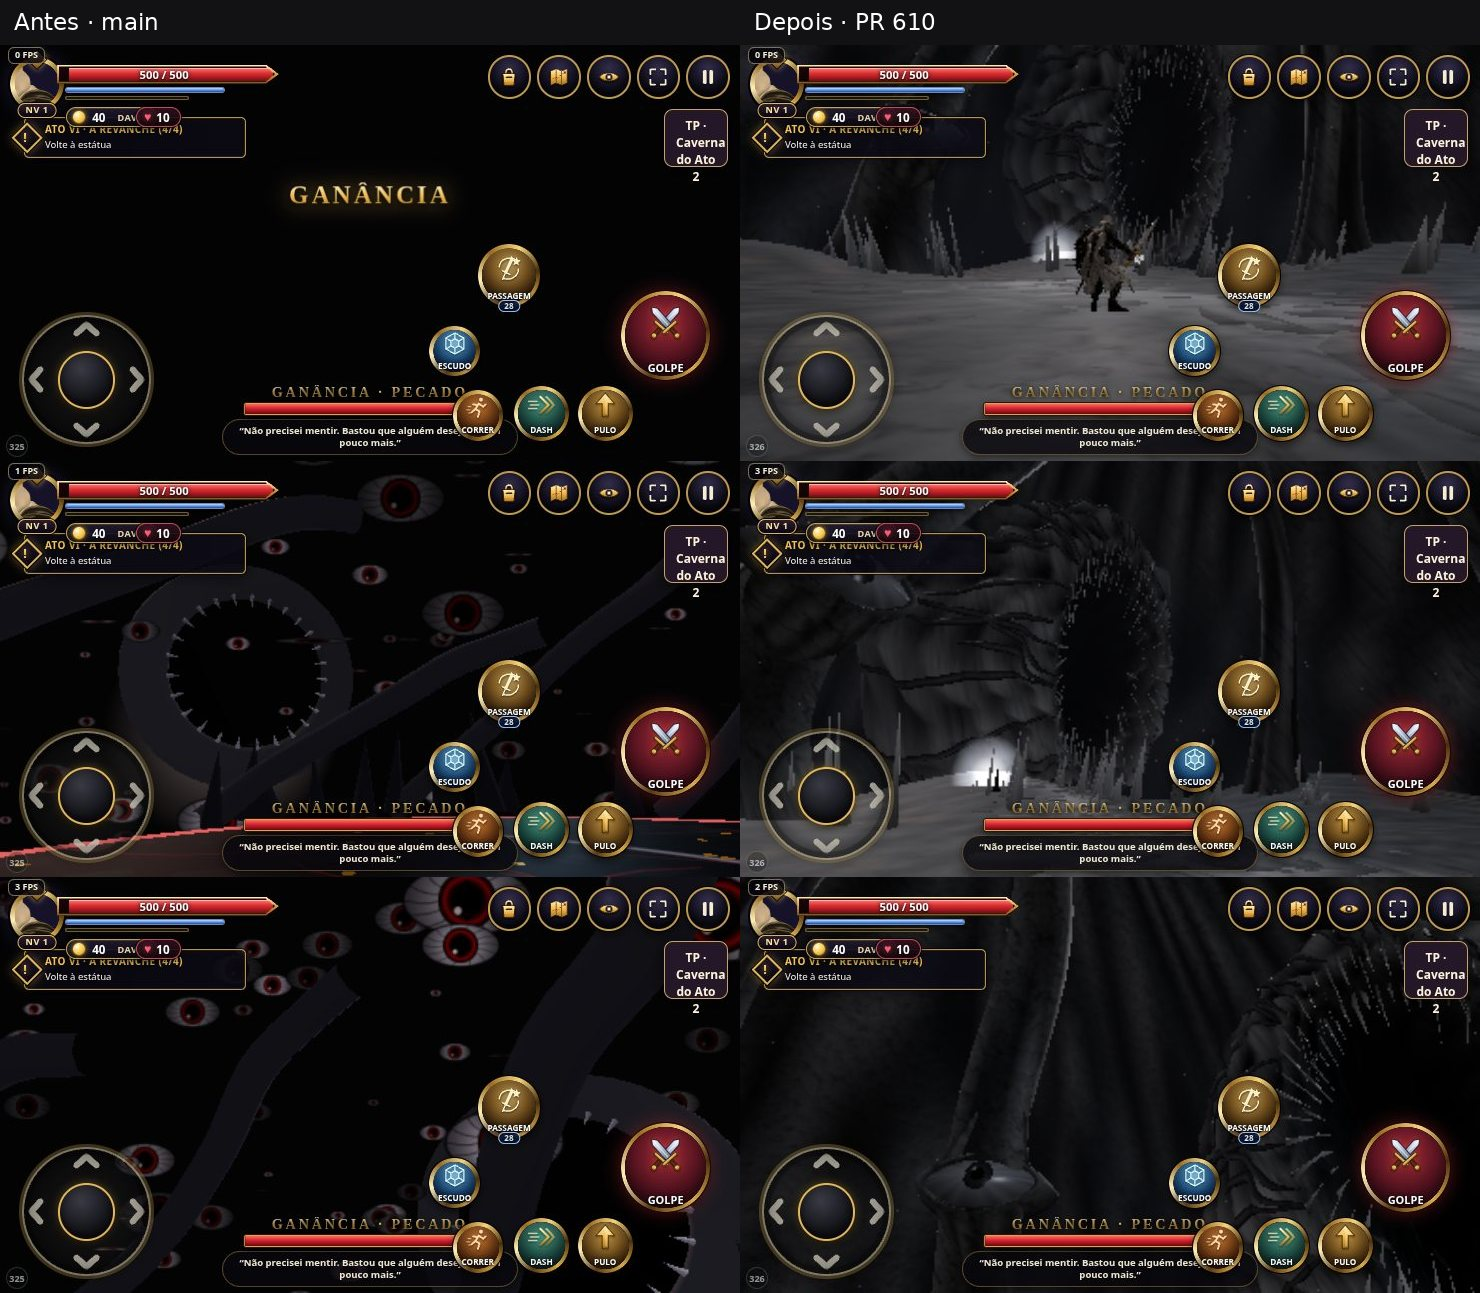
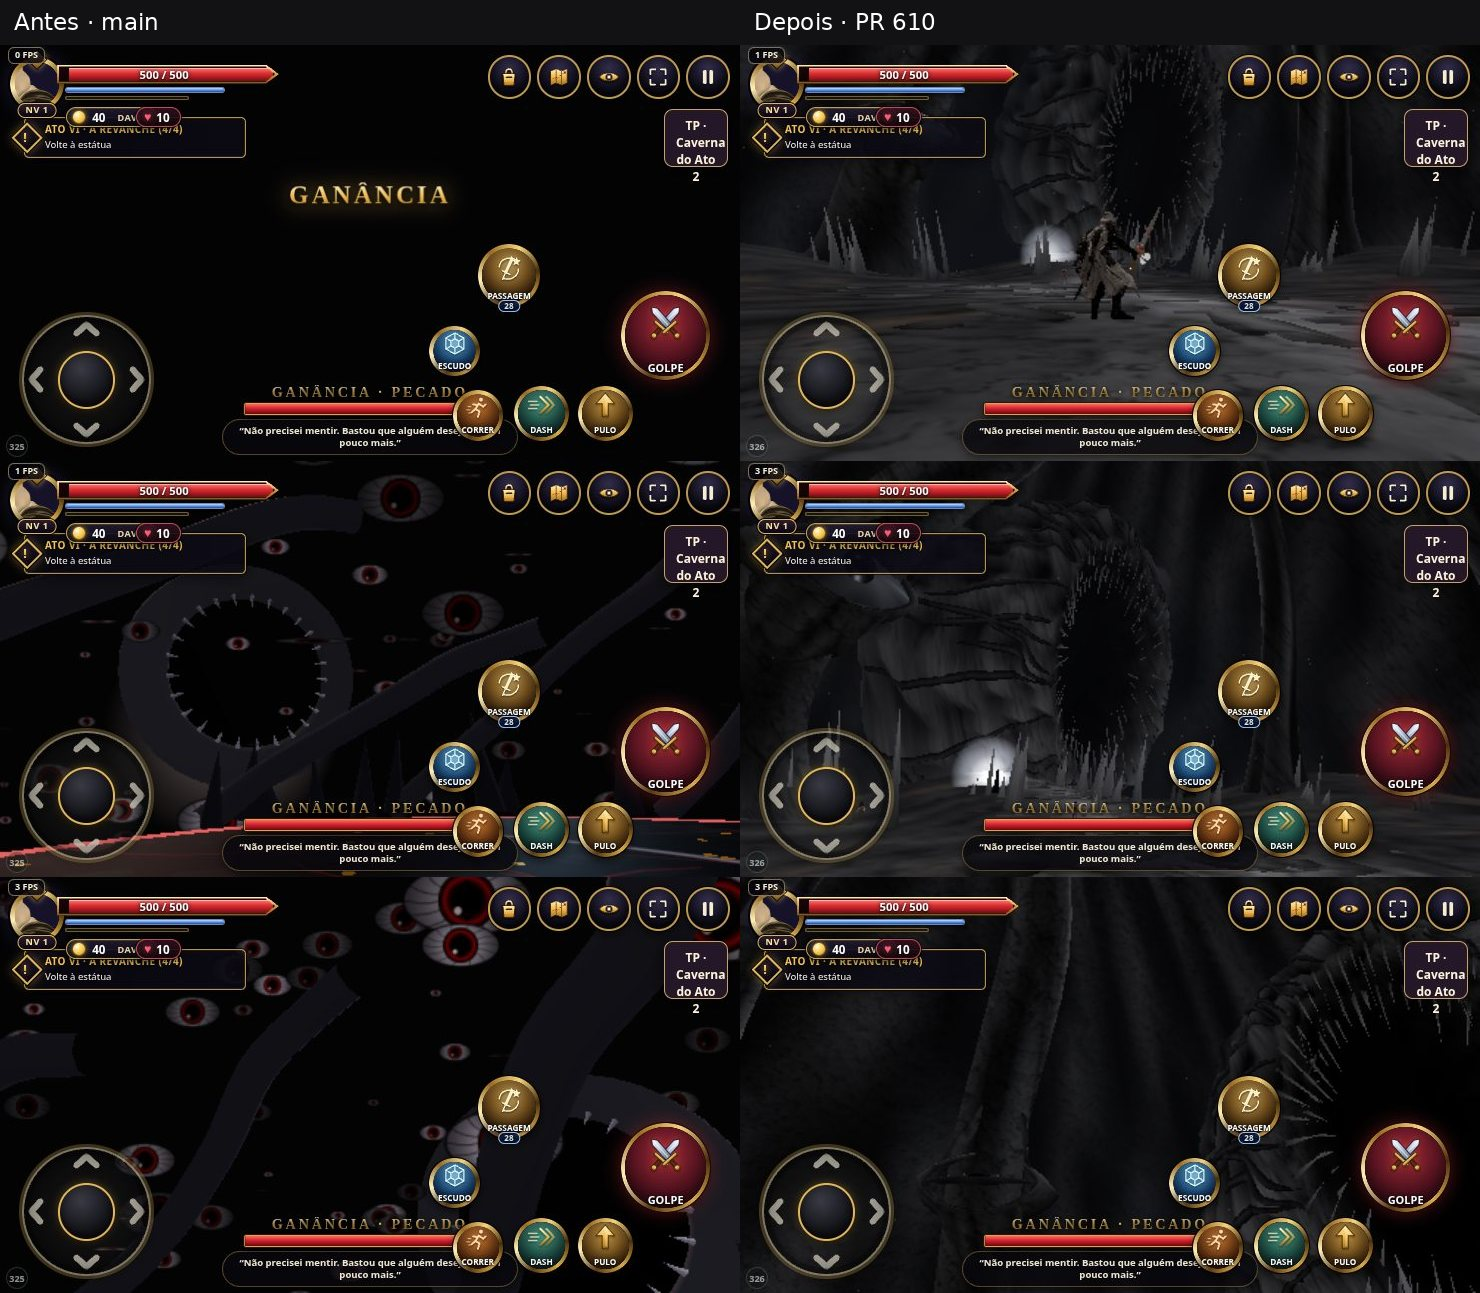
Reduzir o custo da geometria no celular e registrar comparativos da luta em seis vistas

diff --git a/greed-abyss3d.js b/greed-abyss3d.js
@@ -6,7 +6,9 @@ export function createGreedAbyss(T, parent, radius) {
   const tau = Math.PI * 2, sin = Math.sin, cos = Math.cos;
   let seed = 57239;
   const random = () => ((seed = (Math.imul(seed,1664525)+1013904223)>>>0)/4294967296);
-  const stone = new T.MeshStandardMaterial({vertexColors:true,side:T.DoubleSide,roughness:.76});
+  const rockOptions={vertexColors:true,side:T.DoubleSide};
+  const stone=compact?new T.MeshLambertMaterial(rockOptions)
+    :new T.MeshStandardMaterial({...rockOptions,roughness:.76});
   // Bake tileable mineral strata once. Mipmaps remove high-frequency shimmer
   // in moving shots; the floor and vault share one small texture.
   const lattice=Float32Array.from({length:4096},random);
@@ -58,7 +60,7 @@ export function createGreedAbyss(T, parent, radius) {
   }
   // The path is level inside the combat circle. A mineral seam winds
   // towards the witness on the distant ridge.
-  surface(compact?40:58,compact?80:112,(u,v)=>{
+  surface(compact?28:58,compact?64:112,(u,v)=>{
     const a=v*tau,r=.01+u*(radius+26),x=r*cos(a),z=r*sin(a);
     const ridge=Math.exp(-Math.pow((x-4*sin(z*.115))/3.1,2));
     const grain=sin(x*3+cos(z*2))*sin(z*2.1+x*.9);
@@ -92,7 +94,7 @@ export function createGreedAbyss(T, parent, radius) {
   seams.setAttribute('position',new T.Float32BufferAttribute(plates,3));
   seams.setAttribute('color',new T.Float32BufferAttribute(tints,3));
   seams.setIndex(faces);seams.computeVertexNormals();group.add(new T.Mesh(seams,stone));
-  surface(compact?26:36,compact?100:128,(u,v)=>{
+  surface(compact?22:36,compact?84:128,(u,v)=>{
     const a=v*tau,r=76*(1-.97*u*u)+4*sin(15*a+4*u)+2*sin(33*a-u*11);
     const y=-3+84*u,fold=.5+.5*cos(38*a+3*sin(u*6+a*7));
     return [r*cos(a),y,r*sin(a)*(sin(a)<0?1.74:1),.023+.085*fold*fold+.014*sin(17*u+a*12)];
@@ -107,15 +109,16 @@ export function createGreedAbyss(T, parent, radius) {
     const shade=u>.6?Math.pow(Math.max(0,(1-u)/.4),3):1;
     return [p[4]-10*(1-Math.min(1,u/.40))**2+p[0]*cos(a)*skin,p[3]+p[1]*sin(a)*skin,p[2]+1.3*cos(a*2),.002+shade*(.063+.038*ribs+.036*plates+.050*(1+cos(a+1)))];
   }
-  surface(compact?60:80,compact?92:112,skullSurface,skull);
+  surface(compact?50:80,compact?80:112,skullSurface,skull);
   // Carved ridges wrap from the lip into the temporal plates. Each ridge
   // fans out independently, with bare areas between neighbouring bundles.
   const ridges=[],ridgeColors=[],ridgeIndices=[];
+  const ridgeSteps=compact?16:28;
   for(let rib=0;rib<39;rib++){
     const az=(rib+.31*sin(rib*2.1))/39,span=.22+.27*random();
     const base=ridges.length/3;
-    for(let k=0;k<=28;k++){
-      const t=k/28,u=.612-span*t;
+    for(let k=0;k<=ridgeSteps;k++){
+      const t=k/ridgeSteps,u=.612-span*t;
       const curve=az+.018*sin(t*3+rib)+.028*t*t*cos(rib);
       const lift=sin(Math.PI*t)**.65;
       for(let j=0;j<5;j++){
@@ -138,7 +141,7 @@ export function createGreedAbyss(T, parent, radius) {
   // The zygomatic shelves sweep back into the roof. Their knife-edge folds
   // cast a silhouette above the throat from both side approaches.
   for(const side of [-1,1]){
-    surface(42,24,(u,v)=>{
+    surface(compact?24:42,compact?14:24,(u,v)=>{
       const a=v*tau,flare=sin(Math.PI*u)**.67;
       const rib=1+.16*cos(5*a+u*17);
       const x=side*(10+13*sin(u*2.5))-23*u*u;
@@ -162,7 +165,7 @@ export function createGreedAbyss(T, parent, radius) {
     const a=tau*i/13+.16+.12*sin(i*8),d=radius+15+random()*9,x=d*cos(a),z=d*sin(a);
     if(z < -24 && x > -10 && x < 32) continue;
     const dx=-x*.82,dy=45+random()*26,dz=-z*.70,w=2.6+random()*3.3;
-    surface(compact?24:30,compact?18:22,(u,v)=>{
+    surface(compact?18:30,compact?16:22,(u,v)=>{
       const [rx,rz,fold]=rootSection(x,z,dx,dz,w,a,u,v*tau);
       const y=-3+dy*u, clearance=y<7?Math.max(1,(radius+3)/Math.hypot(rx,rz)):1;
       return [rx*clearance,y,rz*clearance,.035+.055*Math.max(0,fold)+.014*sin(u*15+v*8)];
@@ -178,7 +181,7 @@ export function createGreedAbyss(T, parent, radius) {
       // as the host root, including its tilt, flutes and changing thickness.
       socket.updateMatrix();
       const intoSocket=socket.matrix.clone().invert(),attachment=new T.Vector3(),rootPhase=a;
-      surface(12,48,(s,v)=>{
+      surface(compact?7:12,compact?28:48,(s,v)=>{
         const a=v*tau,c=cos(a),sn=sin(a),rootU=u+sn*socket.scale.x*2.7/dy;
         const outerAngle=facing-c*1.06+.10*sn;
         const [rx,rz]=rootSection(x,z,dx,dz,w,rootPhase,rootU,outerAngle);
@@ -191,20 +194,20 @@ export function createGreedAbyss(T, parent, radius) {
           .035+.05*rim*(.5+.5*cos(a*11+s*3))+.039*Math.max(0,sn)*(1-s)];
       },socket);
       const lids=new T.Group();socket.add(lids);
-      const sclera=surface(12,32,(s,v)=>{
+      const sclera=surface(compact?7:12,compact?26:32,(s,v)=>{
         const ang=v*tau, depth=sin(ang),rad=.002+s;
         return [2.05*rad*cos(ang),rad*depth*(.45+.48*Math.abs(depth)),
           .64*(1-rad*rad),.32-.12*s+.05*cos(ang*19)*s];
       },lids);
       sclera.material=cornea;
-      const iris=surface(12,36,(s,v)=>{
+      const iris=surface(compact?8:12,compact?28:36,(s,v)=>{
         const ang=v*tau,rad=.005+s;
         const glint=Math.exp(-110*((rad*cos(ang)+.31)**2+(rad*sin(ang)-.39)**2));
         return [.51*rad*cos(ang),.53*rad*sin(ang),.69-.09*rad*rad,
           (s<.47?.004:.037+.11*(1-s)*(.5+.5*sin(ang*21)))+.82*glint];
       },lids);
       iris.material=cornea;
-      surface(8,40,(s,v)=>{
+      surface(compact?5:8,compact?28:40,(s,v)=>{
         const ang=v*tau, lip=sin(ang),r=1+s*(.22+.11*cos(ang)**2);
         return [2.06*r*cos(ang),r*lip*(.49+.48*Math.abs(lip)),
           -.05-1.2*s*s+.38*sin(Math.PI*s)+.14*lip,.030+.083*sin(Math.PI*s)*(.85+.45*lip)];
@@ -213,7 +216,7 @@ export function createGreedAbyss(T, parent, radius) {
     }
   }
   // Scimitar-like enamel shards taper along a bent axis; instances share a single mesh.
-  const shard=surface(compact?4:6,compact?5:6,(u,v)=>{const a=tau*v,r=(1-u)*(.74+.26*cos(3*a));return [r*cos(a)+.36*u*u,u,r*sin(a),.07+.22*u+.045*cos(a)];});
+  const shard=surface(compact?3:6,compact?4:6,(u,v)=>{const a=tau*v,r=(1-u)*(.74+.26*cos(3*a));return [r*cos(a)+.36*u*u,u,r*sin(a),.07+.22*u+.045*cos(a)];});
   group.remove(shard);
   const teeth=new T.InstancedMesh(shard.geometry,stone,92);skull.add(teeth);
   const dummy=new T.Object3D(),up=new T.Vector3(0,1,0),dir=new T.Vector3();
